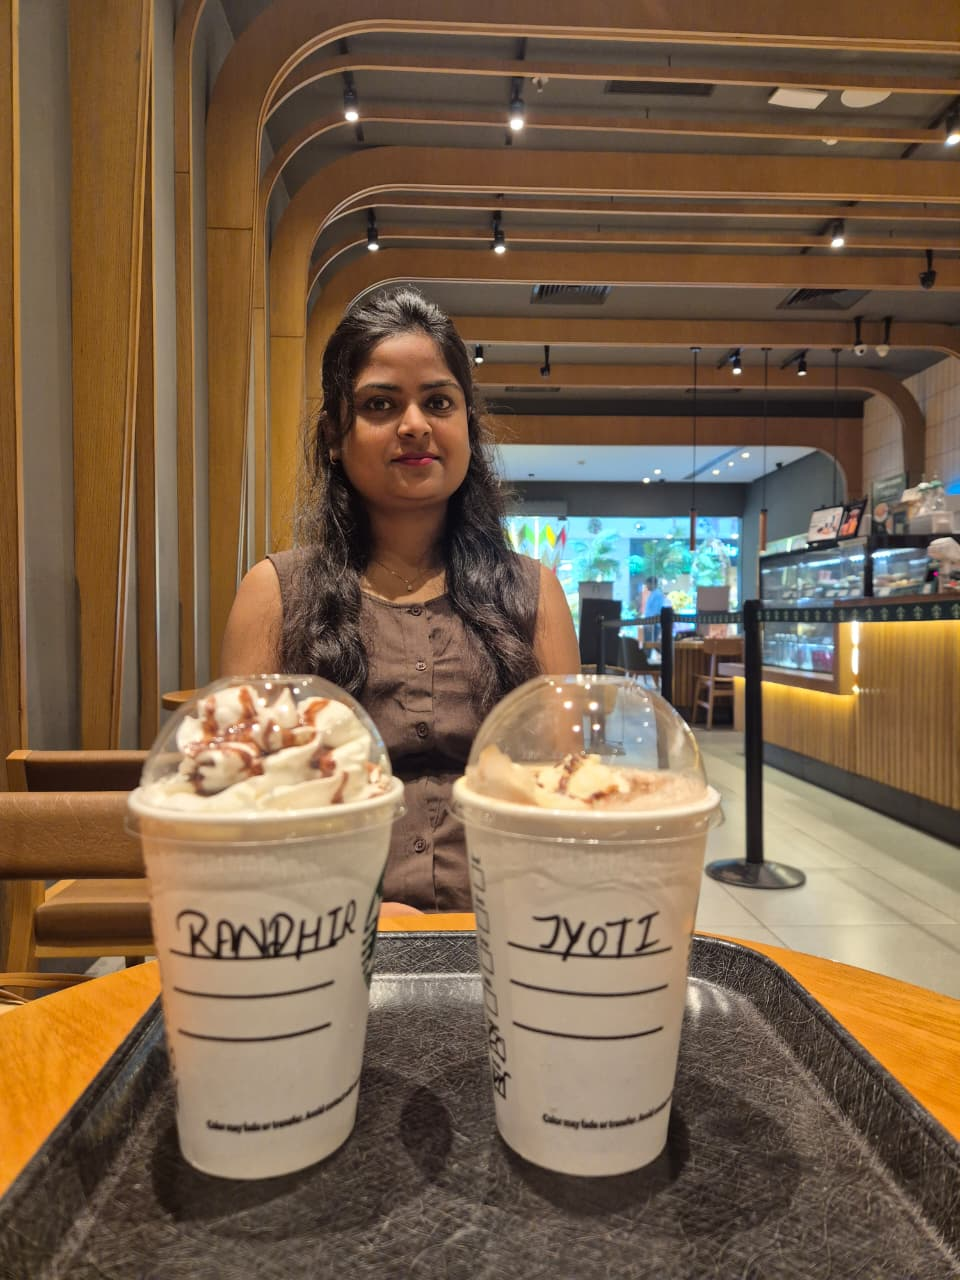
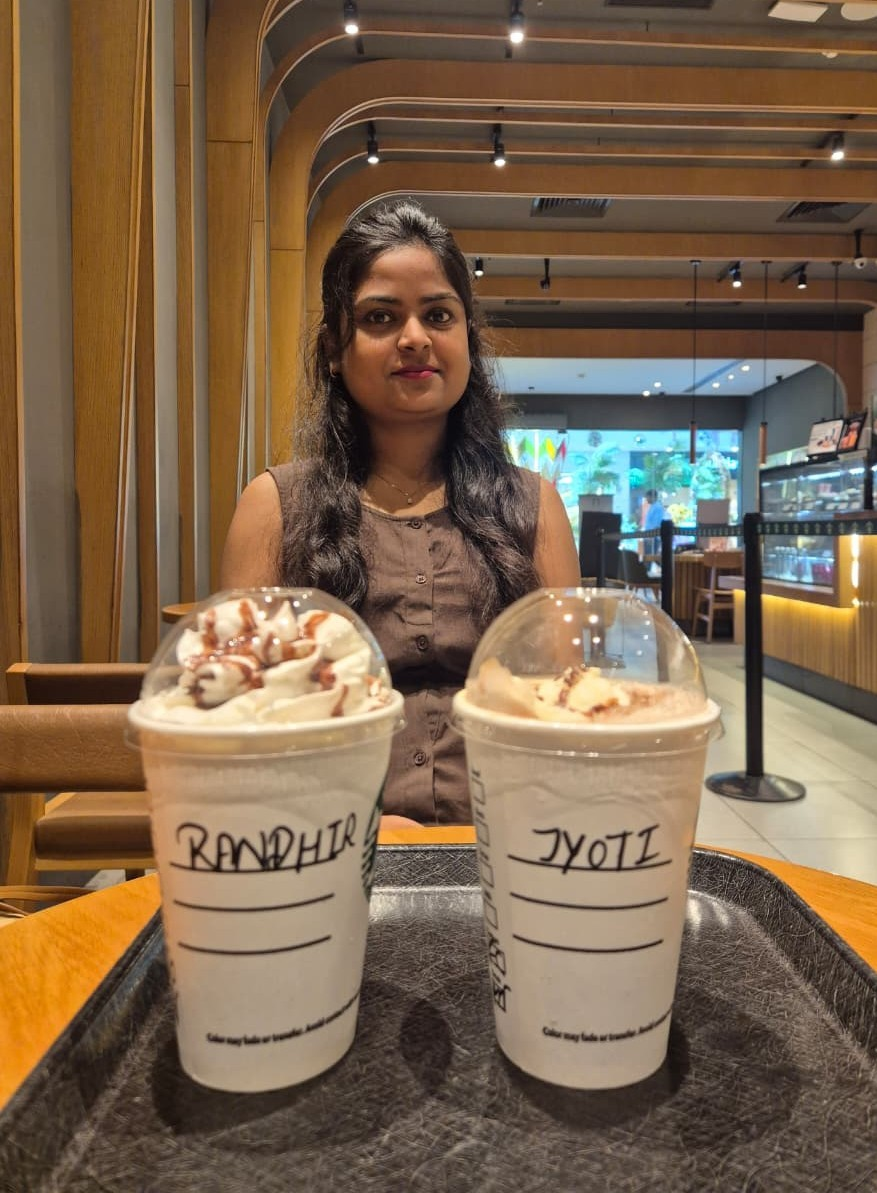
chore: update memory gallery heading to Beautiful Memories

diff --git a/src/components/MemoryGallery.jsx b/src/components/MemoryGallery.jsx
@@ -49,7 +49,7 @@ export const MemoryGallery = () => {
           transition={{ delay: 0.1 }}
           className="font-serif-luxury text-4xl sm:text-5xl text-[#fff2d6]"
         >
-          Her Beautiful Memories
+          Beautiful Memories
         </motion.h2>
 
         <motion.p
